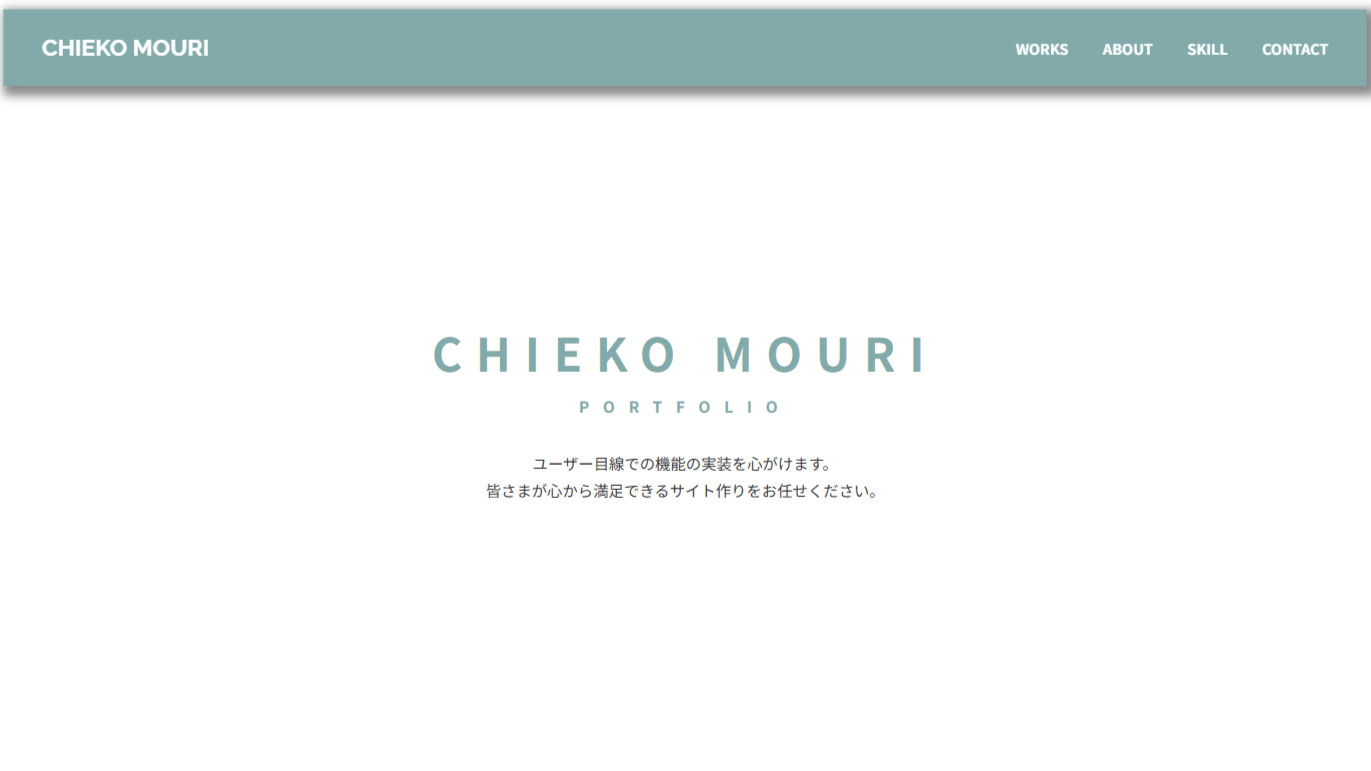
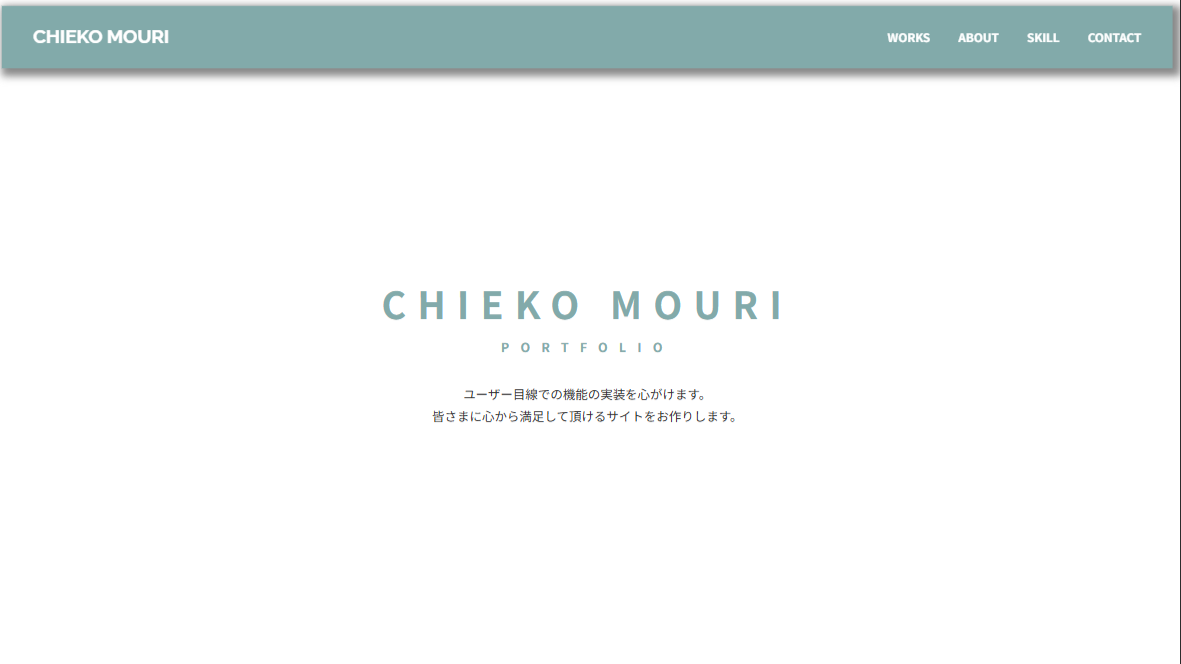
change html,img

diff --git a/index.html b/index.html
@@ -63,7 +63,7 @@
         </h1>
         <p class="cover-text">
           ユーザー目線での機能の実装を心がけます。<br>
-          皆さまに心から満足していただけるサイト作りを行います。
+          皆さまに心から満足して頂けるサイトをお作りします。
         </p>
       </div>
     </div>
